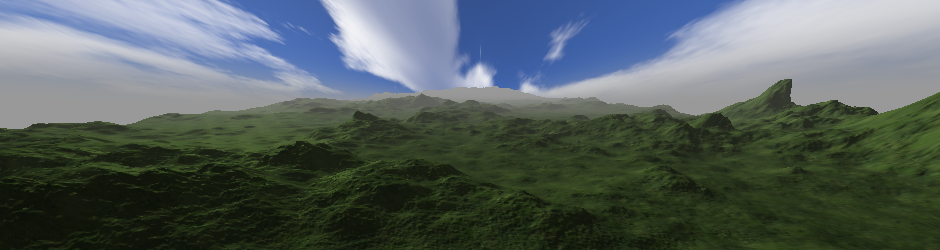
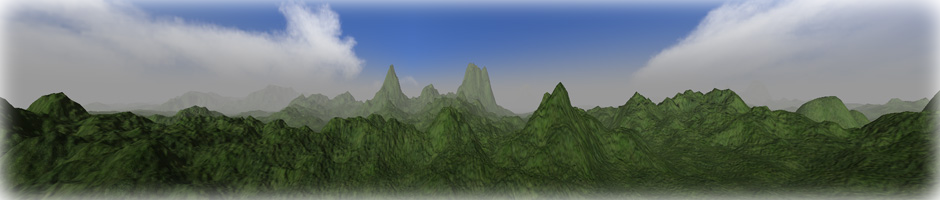
Added divisions image to details page. Working on new tease image

diff --git a/style.css b/style.css
@@ -103,7 +103,7 @@ nav {
  ************************************/
  
 #teaser {
-	background:                   url("images/teaser.jpg");
+	background:                   url("images/teaser.png");
 	background-size:              100%;
 	position:                     relative;
 	margin-top:                   66px;

diff --git a/details.php b/details.php
@@ -108,6 +108,7 @@
             <p>
               The goal of this project is to create a terrain deformation test-bed that supports the real-time deformation of a triangle mesh representing a terrain. The system must be capable of handling a large number of deformations whilst maintaining real-time frame-rates. Ultimately this system will serve as basis for creating realistically deforming terrain environment for use in computer games and visual effects. While methods do exist to change geometry on-the-fly, these have not been widely adopted in computer games mainly due to previous limits imposed by graphics hardware. Currently most computer games rely on pre-computed data, meaning that the terrain (or other environmental objects) can only be changed in a small number of predefined ways, thus breaking immersion.
             </p>
+            <img src="images/divisions.png">
             <p>
               The work of the project is divided up into three components of equal weight. The first and second components share a common framework which is collaboratively developed by Andrew Flower and Justin Crause. This common framework allows for coarse level deformations to take place on the terrain, the implementation of the caching system. The core application also includes the representation of the terrain mesh and basic rendering functionality. The main distinction between the two components comes about with the addition of high-detail deformations to the terrain, one uses <a href="#geomtess">Geometry Tessellation</a> and the other uses a <a href="#parallax">Texture-Based</a> approach. These two back-end implementations will be combined with a  <a href="#interface">Vision Interface</a> front-end to create a unique real-time terrain deformation system.
             </p>

diff --git a/gallery.php b/gallery.php
@@ -109,7 +109,7 @@
           <header>
             <h2>Development</h2>
             <p>
-              FUNNESS!!!!
+              A set of images taken from our development process
             </p>
           </header>
           <div>
@@ -124,7 +124,7 @@
           <header>
             <h2>Videos</h2>
             <p>
-              FUNNESS!!!!
+              Various videos of the project, all the way from early days until the final product
             </p>
           </header>
           <div>
